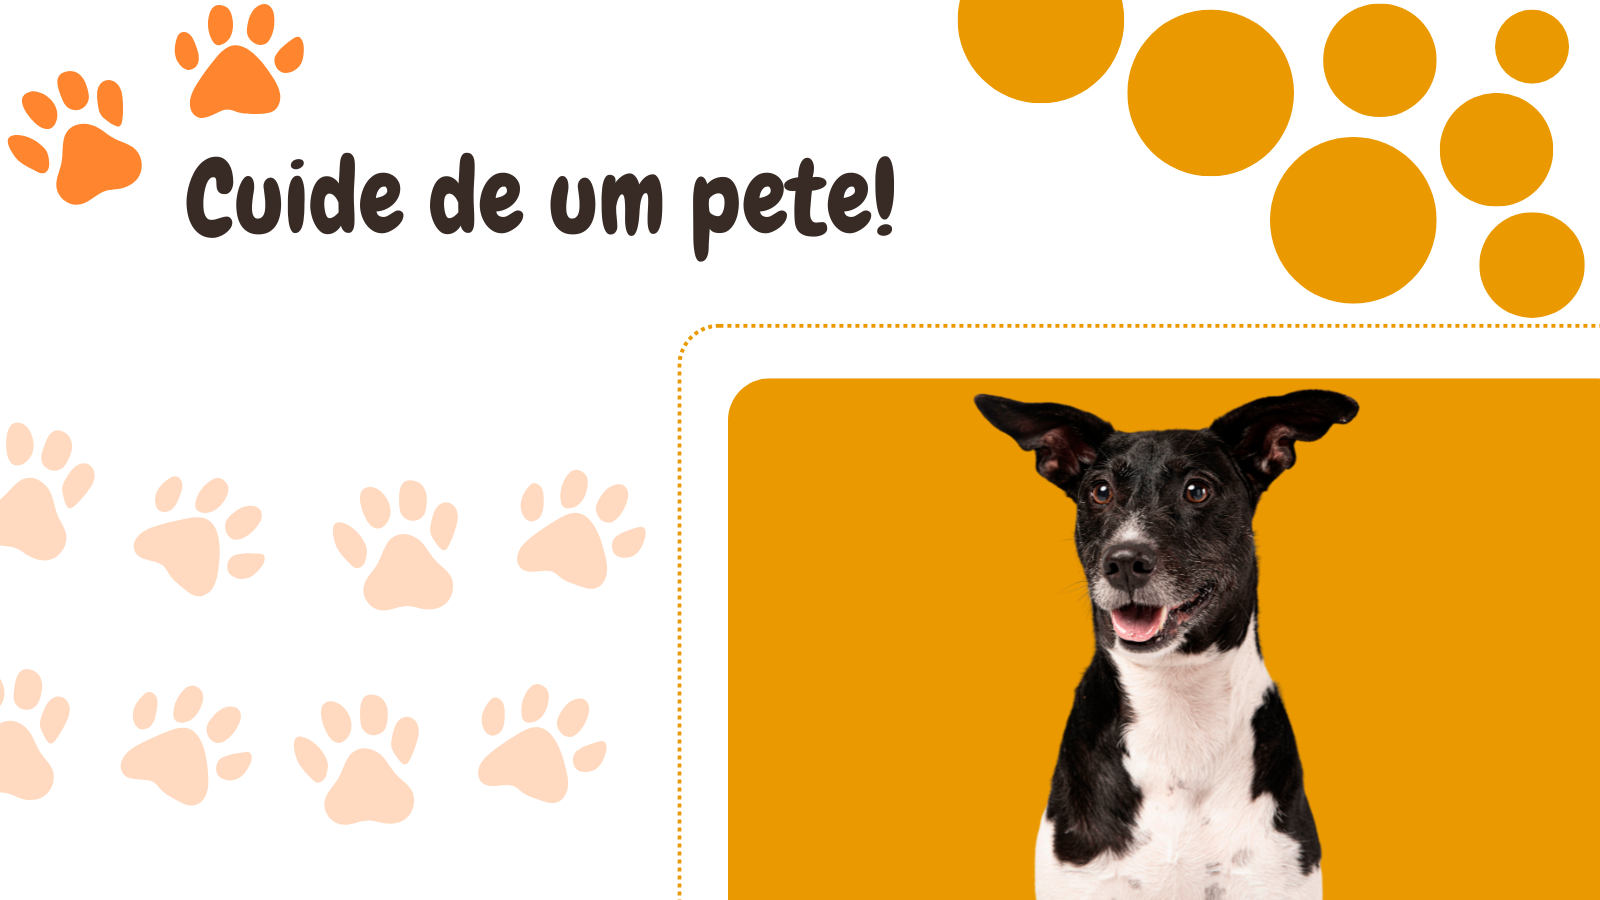
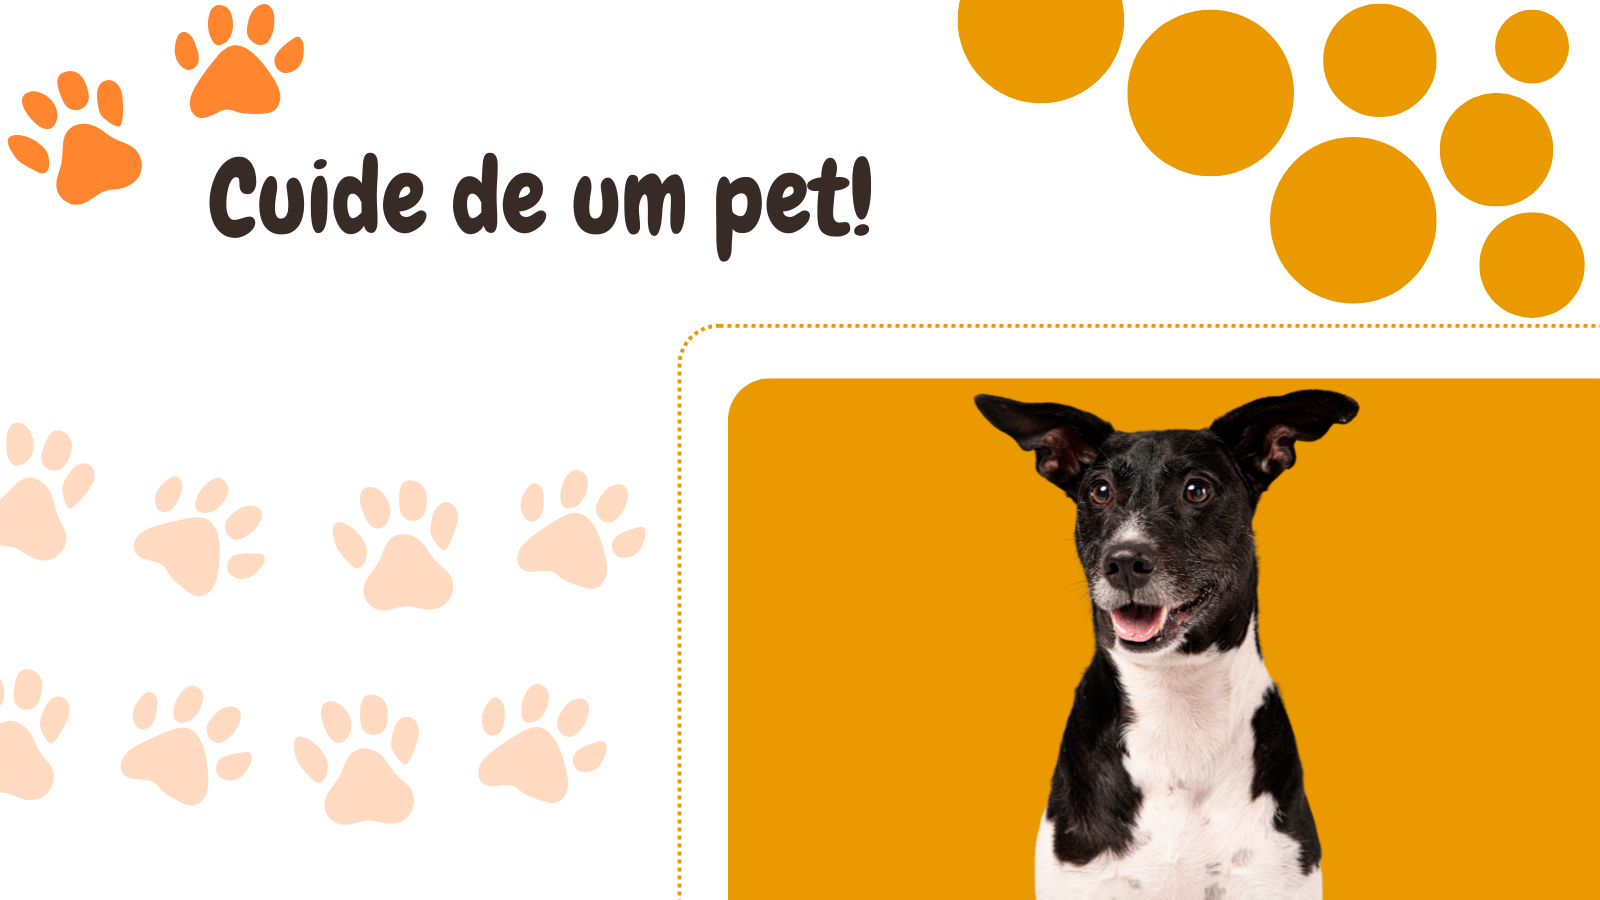
Atualização da imagens - Finalização da página principal.

Changed region(s): [[0.0938, 0.1556, 0.5625, 0.3111]]

diff --git a/pagina principal/style.css b/pagina principal/style.css
@@ -133,10 +133,17 @@ header{
     transition: box-shadow 0.6s ease-in-out, transform 0.2s ease;
 
 }
-.card:hover{
+ .card.ativo{
     box-shadow: 10px 10px 8px #ffd8a2;
-    transform: scale(0.98);
+    transform: scale(0.95); 
 }
+
+/* QUANDO FAZER A RESPONSIVIDADE, REMOVER O DE CIMA E COLOCAR ESSE DAQUI.
+ .card:hover {
+  box-shadow: 10px 10px 8px #ffd8a2;
+  transform: scale(1.02);
+} */
+
 
 .card p{
     text-align: center;

diff --git a/pagina principal/script.js b/pagina principal/script.js
@@ -13,6 +13,16 @@ window.onclick = function(event) {
     }
 }
 
+// Animaçao do card.
+document.querySelectorAll('.card').forEach(card => {
+  card.addEventListener('click', () => {
+
+    document.querySelectorAll('.card').forEach(c => {
+      c.classList.remove('ativo');
+    });
+    card.classList.add('ativo');
+  });
+});
 
 // <!-- CAROUSEL FROM SLIDEJS.COM -->
 var splide = new Splide( '.splide' );
